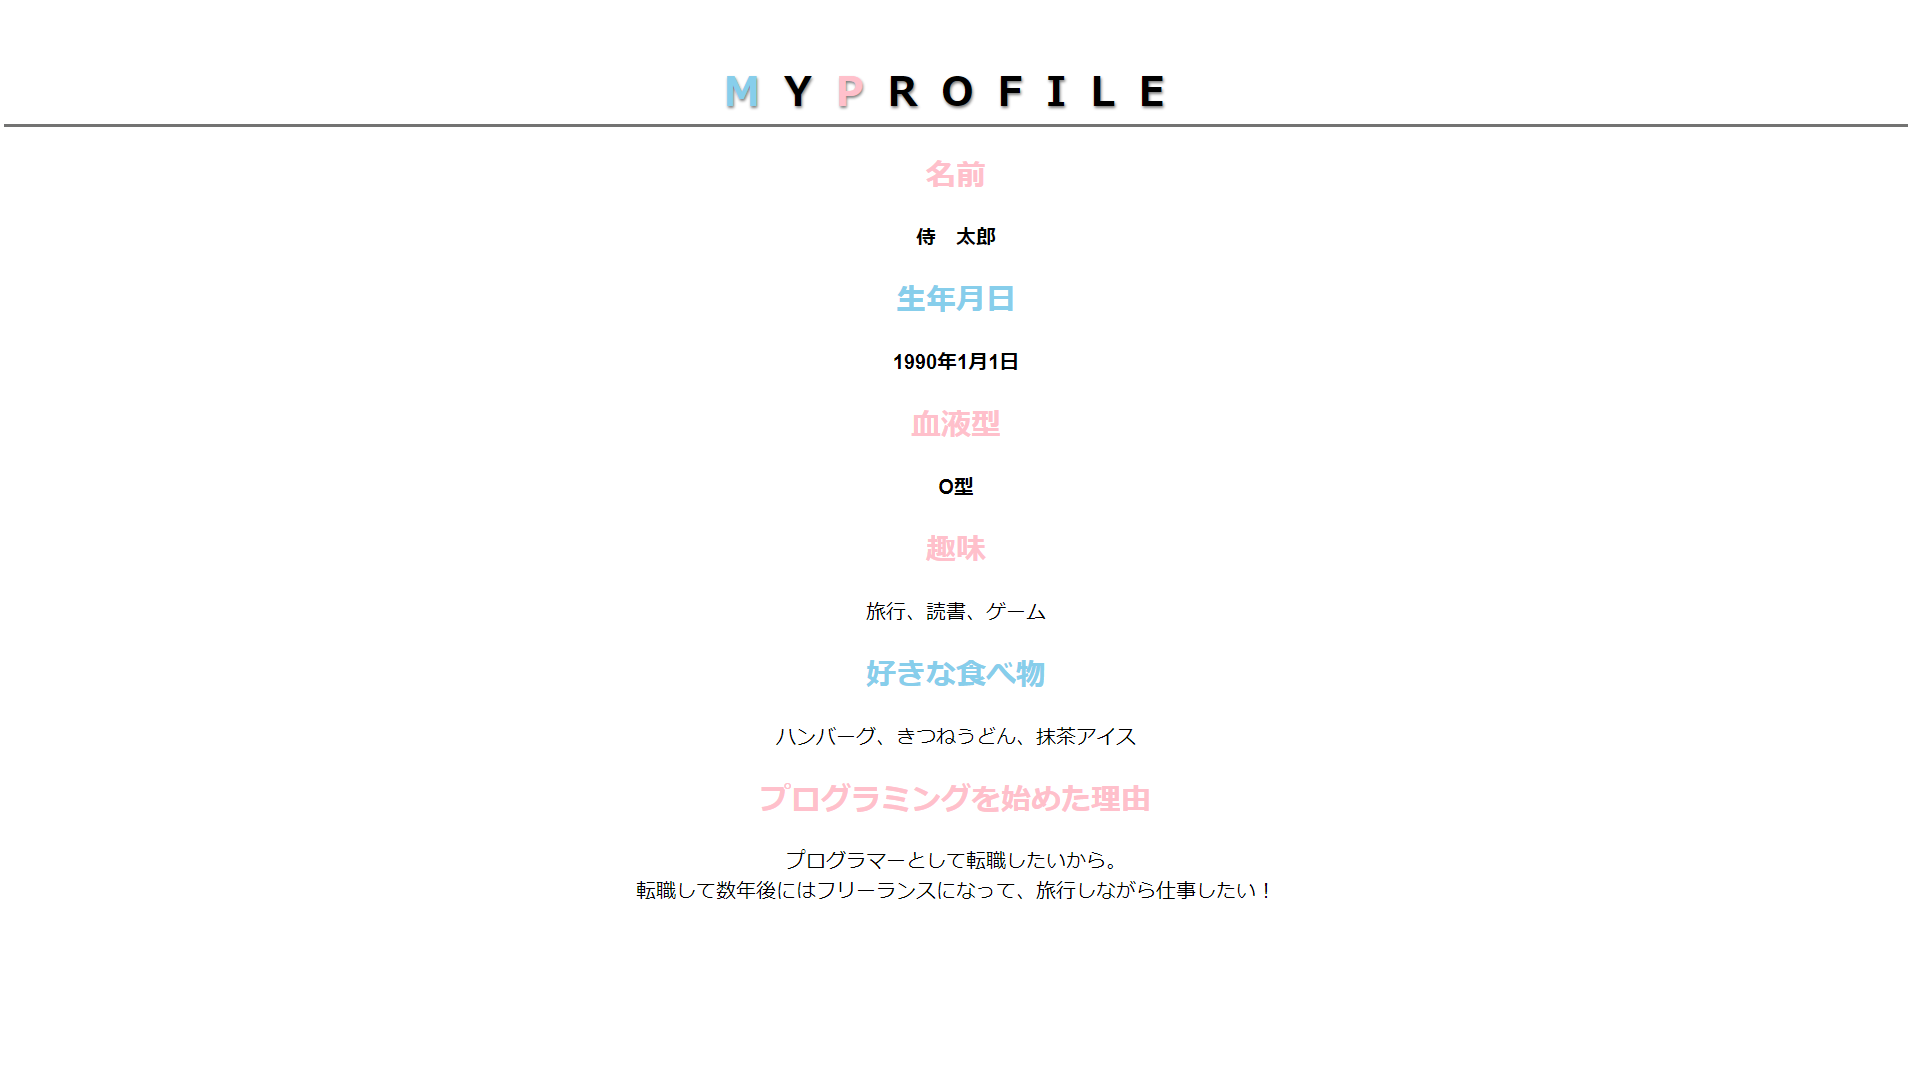
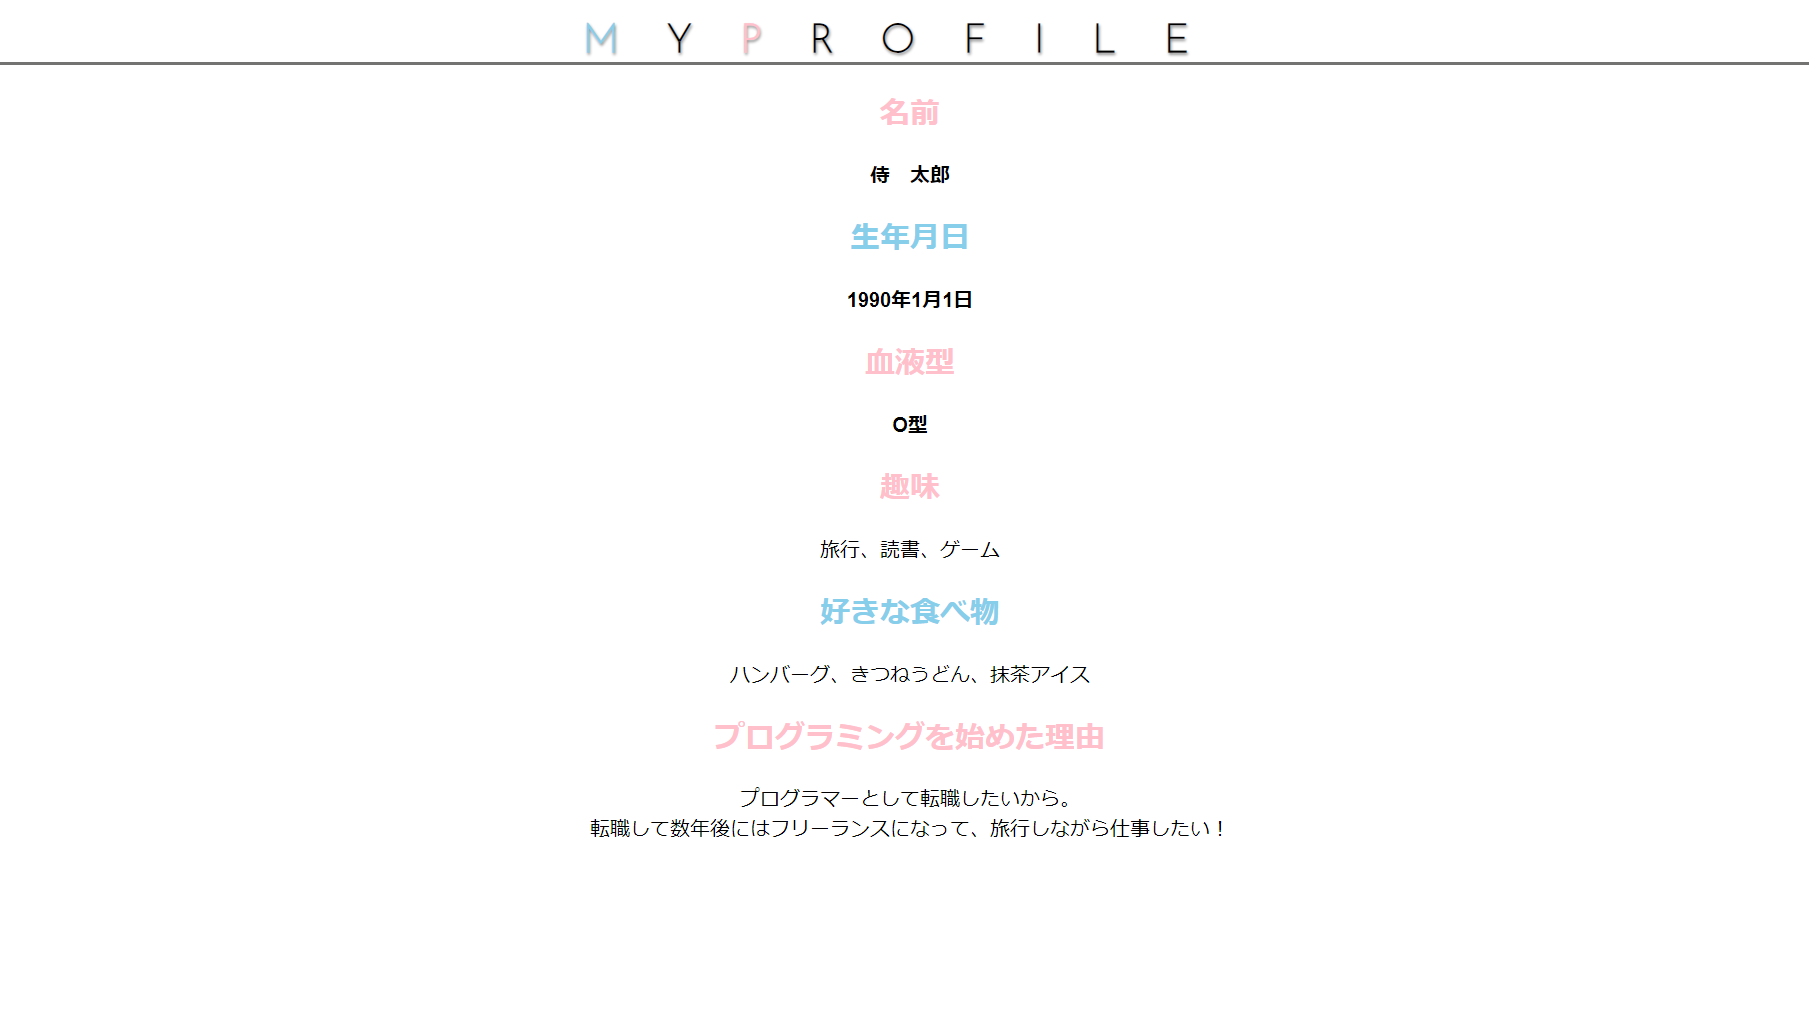
課題 014再提出
指摘された箇所を修正
・h1フォントの指定
　importでフォントを読み込み、font-familyでフォントを指定
・文字間について
　remからemに変更
・スクリーンショットを修正箇所を反映したものに変更

diff --git a/kadai_014/style.css b/kadai_014/style.css
@@ -1,5 +1,7 @@
 @charset "UTF-8";
 
+@import url(https://fonts.googleapis.com/css2?family=Josefin+Sans:wght@100&display=swap);
+
 html {
 	font-size: 20px;
 }
@@ -11,8 +13,8 @@ body {
 
 h1 {
 	font-size: 2rem;
-	font-family: "https://fonts.googleapis.com/css2?family=Josefin+Sans:wght@100&display=swap", sans-serif;
-	letter-spacing: 1.2rem;
+	font-family: "Josefin Sans", sans-serif;
+	letter-spacing: 1.2em;
 	text-shadow: 1px 2px 3px gray;
 	border-bottom: solid 3px rgb(115, 115, 114);
 }
